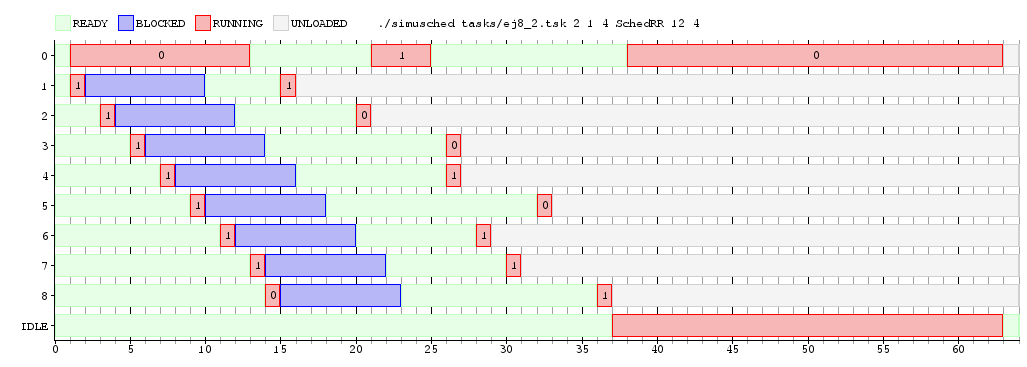
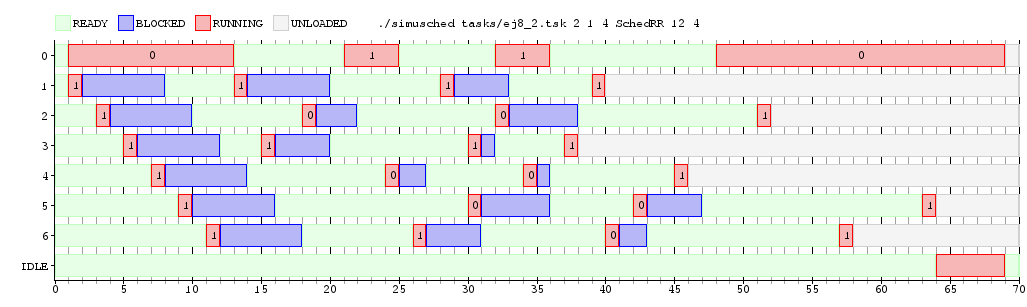
Ex 8: experimentation report, scenarios described

diff --git a/latex/ej8.tex b/latex/ej8.tex
@@ -50,3 +50,74 @@ PID, en caso de que esto sea posible, y en caso contrario devuelve el PID de la 
     las lista de tareas activas del CPU donde estaba registrado. También se
     decrementa en uno el contador de tareas activas de este CPU.
 \end{enumerate}
+
+\subsection{Experimentación}
+
+Se pedía realizar una comparación entre este criterio de \emph{scheduling}
+y otro que sí permitiera la migración entre procesadores. Con este fin, se
+comparó el \emph{scheduler} obtenido con el desarrollado anteriormente en el
+Ejercicio 4 (\texttt{SchedRR}).
+
+Para comparar los resultados producidos por ambos \emph{schedulers}, se
+plantearon dos ejemplos de escenarios reales en los que cada uno de los modelos
+resultara superior al otro. Los escenarios ideados fueron los siguientes:
+
+\begin{enumerate}
+    \item En una máquina con dos CPUs y un coste de migración apreciable, se
+    ejecutan simultáneamente tres tareas que hacen un uso intensivo del
+    procesador. Además, los tiempos de \emph{quantum} asociados a cada
+    procesador son diferentes. En estas circunstancias, es esperable que un
+    scheduler con migración produzca que los procesos estén cambiando de CPU de
+    manera constante, generando un gran desperdicio de recursos. Este efecto
+    seguramente afecte negativamente métricas como el \emph{waiting-time} y el
+    \emph{turnaround} de los procesos, lo cual es indeseable en este tipo de
+    tareas no interactivas. Cabe destacar que en el caso del \emph{scheduler}
+    \texttt{SchedRR2} uno de los procesos tendrá un CPU asignado de forma
+    exclusiva, mientras que los otros dos tendrán que ``repartirse'' el otro
+    \emph{core}, reduciendo la \emph{justicia} del algoritmo. No obstante,
+    teniendo en cuenta lo antes planteado, en este contexto es claramente
+    preferible un algoritmo de \emph{scheduling} sin migración.
+
+    \item También en una máquina con dos CPUs, se ejecuta una tarea que hace un
+    uso intensivo del CPU y varias tareas interactivas, es
+    decir, que hacen un gran uso de entrada/salida. Aquí el \emph{scheduler} sin
+    migración asignará a la mitad de las tareas interactivas el mismo
+    \emph{core} que a la tarea intensiva, provocando una disminución en la 
+    \emph{latencia} o tiempo de respuesta de las mismas, como así también en su
+    tiempo de espera o \emph{waiting-time}. El \emph{scheduler} con migración,
+    en cambio, permitirá que, mientras la tarea intesiva utiliza un procesador, 
+    cualquiera de las tareas interactivas pueda ocupar el otro, obteniendo así
+    mejores resultados.
+\end{enumerate}
+
+A continuación se muestran los gráficos y las mediciones obtenidas en ambas
+implementaciones para los lotes de tareas \texttt{ej8\_1} y \texttt{ej8\_2},
+realizados según los dos escenarios recién propuestos.
+
+\begin{figure}[H]
+    \begin{center}
+        \includegraphics[width=1\columnwidth]{imagenes/ej8_1_rr.png}
+        \caption{Escenario 1 en \emph{scheduler} con migración (\texttt{SchedRR})}
+    \end{center}
+\end{figure}
+
+\begin{figure}[H]
+    \begin{center}
+        \includegraphics[width=1\columnwidth]{imagenes/ej8_1_rr2.png}
+        \caption{Escenario 1 en \emph{scheduler} sin migración (\texttt{SchedRR2})}
+    \end{center}
+\end{figure}
+
+\begin{figure}[H]
+    \begin{center}
+        \includegraphics[width=1\columnwidth]{imagenes/ej8_2_rr.png}
+        \caption{Escenario 2 en \emph{scheduler} con migración (\texttt{SchedRR})}
+    \end{center}
+\end{figure}
+
+\begin{figure}[H]
+    \begin{center}
+        \includegraphics[width=1\columnwidth]{imagenes/ej8_2_rr2.png}
+        \caption{Escenario 2 en \emph{scheduler} sin migración (\texttt{SchedRR2})}
+    \end{center}
+\end{figure}
